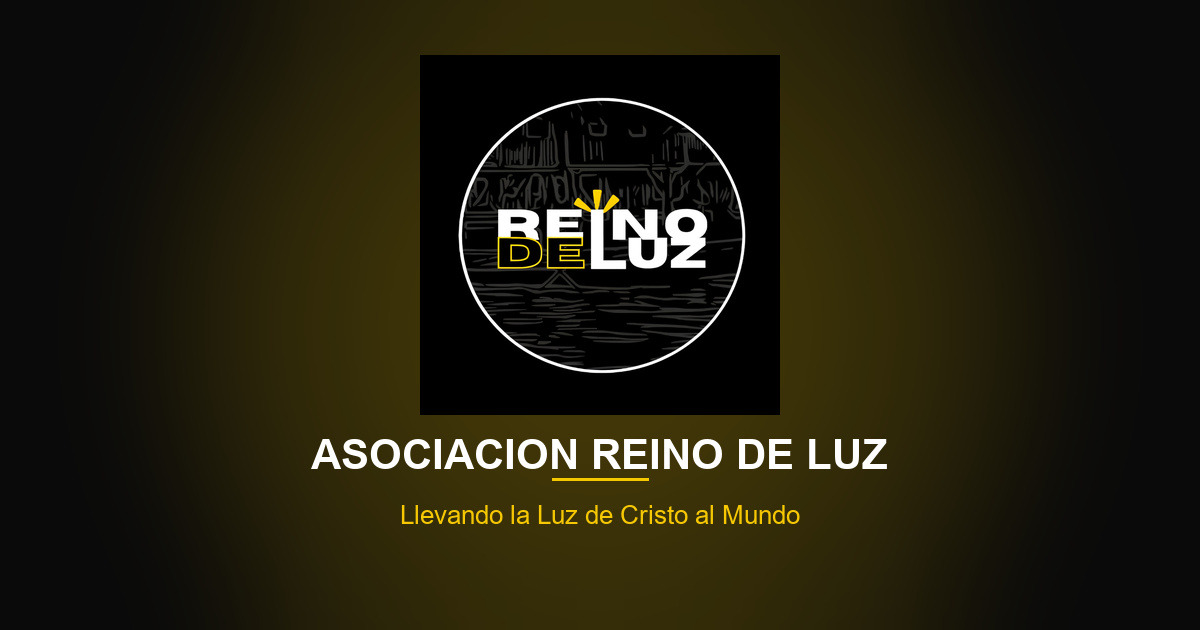
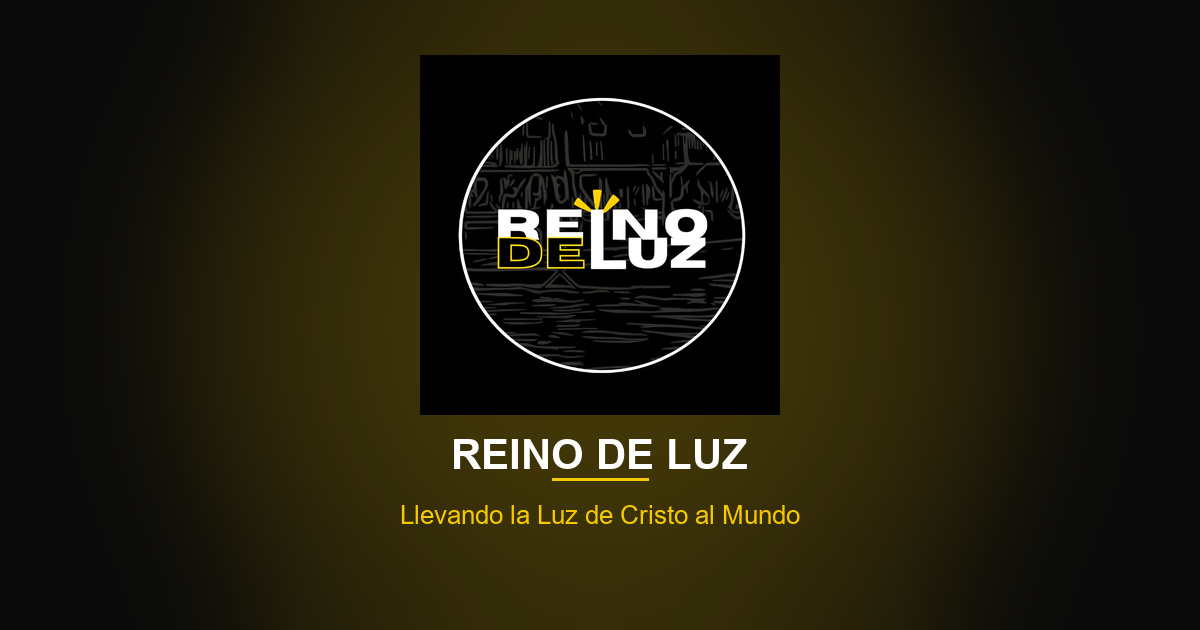
Drop Asociacion from brand naming across the site
Use Reino de Luz in titles, meta, copyright, push copy, and the share image while keeping YouTube account URLs unchanged.

Changed region(s): [[0.2467, 0.6937, 0.74, 0.754]]

diff --git a/en-vivo.html b/en-vivo.html
@@ -14,20 +14,20 @@
 <link rel="icon" type="image/png" sizes="512x512" href="icons/icon-512.png?v=22"/>
 <meta name="description" content="Adoración, predicación y oración en vivo. Activa notificaciones para enterarte cuando estemos al aire."/>
 <meta property="og:type" content="website"/>
-<meta property="og:site_name" content="Asociación Reino de Luz"/>
+<meta property="og:site_name" content="Reino de Luz"/>
 <meta property="og:locale" content="es_PE"/>
 <meta property="og:url" content="https://reinodeluz.org/en-vivo.html"/>
-<meta property="og:title" content="En Vivo · Asociación Reino de Luz"/>
+<meta property="og:title" content="En Vivo · Reino de Luz"/>
 <meta property="og:description" content="Adoración, predicación y oración en vivo. Activa notificaciones para enterarte cuando estemos al aire."/>
-<meta property="og:image" content="https://reinodeluz.org/og-image.jpg?v=22"/>
+<meta property="og:image" content="https://reinodeluz.org/og-image.jpg?v=23"/>
 <meta property="og:image:width" content="1200"/>
 <meta property="og:image:height" content="630"/>
-<meta property="og:image:alt" content="Asociación Reino de Luz"/>
+<meta property="og:image:alt" content="Reino de Luz"/>
 <meta name="twitter:card" content="summary_large_image"/>
-<meta name="twitter:title" content="En Vivo · Asociación Reino de Luz"/>
+<meta name="twitter:title" content="En Vivo · Reino de Luz"/>
 <meta name="twitter:description" content="Adoración, predicación y oración en vivo. Activa notificaciones para enterarte cuando estemos al aire."/>
-<meta name="twitter:image" content="https://reinodeluz.org/og-image.jpg?v=22"/>
-<title>En Vivo · Asociación Reino de Luz</title>
+<meta name="twitter:image" content="https://reinodeluz.org/og-image.jpg?v=23"/>
+<title>En Vivo · Reino de Luz</title>
 <link href="https://fonts.googleapis.com/css2?family=Bebas+Neue&family=Oswald:wght@400;500;700&family=Barlow:wght@400;500&family=Barlow+Condensed:wght@600;700;900&display=swap" rel="stylesheet"/>
 <link rel="stylesheet" href="effects.css?v=31"/>
 <style>
@@ -347,7 +347,7 @@ footer p{font-size:0.8rem;color:var(--muted);margin-bottom:0.25rem;}
         <div class="channel-card">
           <div class="channel-card-header">
             <img src="reinodeluzlogo.png?v=22" alt="Canal" class="channel-logo-sm"/>
-            <div><div class="channel-name">Asociación Reino de Luz</div><div class="channel-handle">@AsociaciónReinodeLuz</div></div>
+            <div><div class="channel-name">Reino de Luz</div><div class="channel-handle">@asociacionreinodeluz</div></div>
           </div>
           <p data-es="Activa las notificaciones del sitio para enterarte al instante cuando empecemos a transmitir." data-en="Turn on site notifications to know the moment we go live.">Activa las notificaciones del sitio para enterarte al instante cuando empecemos a transmitir.</p>
           <a href="https://www.youtube.com/@asociacionreinodeluz" target="_blank" rel="noopener noreferrer" data-es="Visitar Canal →" data-en="Visit Channel →">Visitar Canal →</a>
@@ -369,7 +369,7 @@ footer p{font-size:0.8rem;color:var(--muted);margin-bottom:0.25rem;}
     <div class="footer-wordmark" data-es="REINO <span>DE LUZ</span>" data-en="KINGDOM <span>OF LIGHT</span>">REINO <span>DE LUZ</span></div>
   </div>
   <p data-es="Llevando la Luz de Cristo al Mundo" data-en="Carrying the Light of Christ to the World">Llevando la Luz de Cristo al Mundo</p>
-  <p style="margin-top:0.4rem;" data-es="© 2026 Asociación Reino de Luz. Todos los derechos reservados." data-en="© 2026 Asociación Reino de Luz. All rights reserved.">© 2026 Asociación Reino de Luz. Todos los derechos reservados.</p>
+  <p style="margin-top:0.4rem;" data-es="© 2026 Reino de Luz. Todos los derechos reservados." data-en="© 2026 Reino de Luz. All rights reserved.">© 2026 Reino de Luz. Todos los derechos reservados.</p>
   <ul class="footer-links">
     <li><a href="en-vivo.html" data-es="En Vivo" data-en="Live">En Vivo</a></li>
     <li><a href="mision.html" data-es="Misión" data-en="Mission">Misión</a></li>
@@ -431,7 +431,7 @@ setLang(savedLang);
           iframe.src = EMBED_SRC;
           iframe.allow = 'accelerometer; autoplay; clipboard-write; encrypted-media; gyroscope; picture-in-picture';
           iframe.allowFullscreen = true;
-          iframe.title = 'Asociación Reino de Luz — Live';
+          iframe.title = 'Reino de Luz — Live';
           embedWrapper.appendChild(iframe);
         }
       } else if (iframe) {
@@ -448,13 +448,13 @@ setLang(savedLang);
     }
     if (embedCaption) {
       embedCaption.setAttribute('data-es', isLive
-        ? 'Estás viendo la transmisión en vivo de Asociación Reino de Luz.'
+        ? 'Estás viendo la transmisión en vivo de Reino de Luz.'
         : 'Te avisaremos cuando la transmisión esté al aire.');
       embedCaption.setAttribute('data-en', isLive
-        ? 'You are watching Asociación Reino de Luz live.'
+        ? 'You are watching Reino de Luz live.'
         : "We'll let you know when the stream is on air.");
       embedCaption.textContent = isLive
-        ? (lang === 'en' ? 'You are watching Asociación Reino de Luz live.' : 'Estás viendo la transmisión en vivo de Asociación Reino de Luz.')
+        ? (lang === 'en' ? 'You are watching Reino de Luz live.' : 'Estás viendo la transmisión en vivo de Reino de Luz.')
         : (lang === 'en' ? "We'll let you know when the stream is on air." : 'Te avisaremos cuando la transmisión esté al aire.');
     }
   }

diff --git a/contacto.html b/contacto.html
@@ -12,22 +12,22 @@
 <link rel="apple-touch-icon" href="icons/apple-touch-icon.png?v=22"/>
 <link rel="icon" type="image/png" sizes="192x192" href="icons/icon-192.png?v=22"/>
 <link rel="icon" type="image/png" sizes="512x512" href="icons/icon-512.png?v=22"/>
-<meta name="description" content="Escríbenos por WhatsApp o Facebook. Asociación Reino de Luz en Iquitos, Perú."/>
+<meta name="description" content="Escríbenos por WhatsApp o Facebook. Reino de Luz en Iquitos, Perú."/>
 <meta property="og:type" content="website"/>
-<meta property="og:site_name" content="Asociación Reino de Luz"/>
+<meta property="og:site_name" content="Reino de Luz"/>
 <meta property="og:locale" content="es_PE"/>
 <meta property="og:url" content="https://reinodeluz.org/contacto.html"/>
-<meta property="og:title" content="Contacto · Asociación Reino de Luz"/>
-<meta property="og:description" content="Escríbenos por WhatsApp o Facebook. Asociación Reino de Luz en Iquitos, Perú."/>
-<meta property="og:image" content="https://reinodeluz.org/og-image.jpg?v=22"/>
+<meta property="og:title" content="Contacto · Reino de Luz"/>
+<meta property="og:description" content="Escríbenos por WhatsApp o Facebook. Reino de Luz en Iquitos, Perú."/>
+<meta property="og:image" content="https://reinodeluz.org/og-image.jpg?v=23"/>
 <meta property="og:image:width" content="1200"/>
 <meta property="og:image:height" content="630"/>
-<meta property="og:image:alt" content="Asociación Reino de Luz"/>
+<meta property="og:image:alt" content="Reino de Luz"/>
 <meta name="twitter:card" content="summary_large_image"/>
-<meta name="twitter:title" content="Contacto · Asociación Reino de Luz"/>
-<meta name="twitter:description" content="Escríbenos por WhatsApp o Facebook. Asociación Reino de Luz en Iquitos, Perú."/>
-<meta name="twitter:image" content="https://reinodeluz.org/og-image.jpg?v=22"/>
-<title>Contacto · Asociación Reino de Luz</title>
+<meta name="twitter:title" content="Contacto · Reino de Luz"/>
+<meta name="twitter:description" content="Escríbenos por WhatsApp o Facebook. Reino de Luz en Iquitos, Perú."/>
+<meta name="twitter:image" content="https://reinodeluz.org/og-image.jpg?v=23"/>
+<title>Contacto · Reino de Luz</title>
 <link href="https://fonts.googleapis.com/css2?family=Bebas+Neue&family=Oswald:wght@400;500;700&family=Barlow:wght@400;500&family=Barlow+Condensed:wght@600;700;900&display=swap" rel="stylesheet"/>
 <link rel="stylesheet" href="effects.css?v=31"/>
 <style>
@@ -340,7 +340,7 @@ footer p{font-size:0.8rem;color:var(--muted);margin-bottom:0.25rem;}
           </span>
           <span class="contact-channel-text">
             <span class="contact-channel-label">Facebook</span>
-            <span class="contact-channel-sub" data-es="Asociación Reino De Luz" data-en="Asociación Reino De Luz">Asociación Reino De Luz</span>
+            <span class="contact-channel-sub" data-es="Reino de Luz" data-en="Reino de Luz">Reino de Luz</span>
           </span>
           <span class="contact-channel-arrow" aria-hidden="true">→</span>
         </a>
@@ -359,7 +359,7 @@ footer p{font-size:0.8rem;color:var(--muted);margin-bottom:0.25rem;}
     <div class="footer-wordmark" data-es="REINO <span>DE LUZ</span>" data-en="KINGDOM <span>OF LIGHT</span>">REINO <span>DE LUZ</span></div>
   </div>
   <p data-es="Llevando la Luz de Cristo al Mundo" data-en="Carrying the Light of Christ to the World">Llevando la Luz de Cristo al Mundo</p>
-  <p style="margin-top:0.4rem;" data-es="© 2026 Asociación Reino de Luz. Todos los derechos reservados." data-en="© 2026 Asociación Reino de Luz. All rights reserved.">© 2026 Asociación Reino de Luz. Todos los derechos reservados.</p>
+  <p style="margin-top:0.4rem;" data-es="© 2026 Reino de Luz. Todos los derechos reservados." data-en="© 2026 Reino de Luz. All rights reserved.">© 2026 Reino de Luz. Todos los derechos reservados.</p>
   <ul class="footer-links">
     <li><a href="en-vivo.html" data-es="En Vivo" data-en="Live">En Vivo</a></li>
     <li><a href="mision.html" data-es="Misión" data-en="Mission">Misión</a></li>

diff --git a/about.html b/about.html
@@ -12,22 +12,22 @@
 <link rel="apple-touch-icon" href="icons/apple-touch-icon.png?v=22"/>
 <link rel="icon" type="image/png" sizes="192x192" href="icons/icon-192.png?v=22"/>
 <link rel="icon" type="image/png" sizes="512x512" href="icons/icon-512.png?v=22"/>
-<meta name="description" content="Conoce la historia y el llamado de Asociación Reino de Luz en Iquitos, Perú."/>
+<meta name="description" content="Conoce la historia y el llamado de Reino de Luz en Iquitos, Perú."/>
 <meta property="og:type" content="website"/>
-<meta property="og:site_name" content="Asociación Reino de Luz"/>
+<meta property="og:site_name" content="Reino de Luz"/>
 <meta property="og:locale" content="es_PE"/>
 <meta property="og:url" content="https://reinodeluz.org/about.html"/>
-<meta property="og:title" content="Nosotros · Asociación Reino de Luz"/>
-<meta property="og:description" content="Conoce la historia y el llamado de Asociación Reino de Luz en Iquitos, Perú."/>
-<meta property="og:image" content="https://reinodeluz.org/og-image.jpg?v=22"/>
+<meta property="og:title" content="Nosotros · Reino de Luz"/>
+<meta property="og:description" content="Conoce la historia y el llamado de Reino de Luz en Iquitos, Perú."/>
+<meta property="og:image" content="https://reinodeluz.org/og-image.jpg?v=23"/>
 <meta property="og:image:width" content="1200"/>
 <meta property="og:image:height" content="630"/>
-<meta property="og:image:alt" content="Asociación Reino de Luz"/>
+<meta property="og:image:alt" content="Reino de Luz"/>
 <meta name="twitter:card" content="summary_large_image"/>
-<meta name="twitter:title" content="Nosotros · Asociación Reino de Luz"/>
-<meta name="twitter:description" content="Conoce la historia y el llamado de Asociación Reino de Luz en Iquitos, Perú."/>
-<meta name="twitter:image" content="https://reinodeluz.org/og-image.jpg?v=22"/>
-<title>Nosotros · Asociación Reino de Luz</title>
+<meta name="twitter:title" content="Nosotros · Reino de Luz"/>
+<meta name="twitter:description" content="Conoce la historia y el llamado de Reino de Luz en Iquitos, Perú."/>
+<meta name="twitter:image" content="https://reinodeluz.org/og-image.jpg?v=23"/>
+<title>Nosotros · Reino de Luz</title>
 <link href="https://fonts.googleapis.com/css2?family=Bebas+Neue&family=Oswald:wght@400;500;700&family=Barlow:wght@400;500&family=Barlow+Condensed:wght@600;700;900&display=swap" rel="stylesheet"/>
 <link rel="stylesheet" href="effects.css?v=31"/>
 <style>
@@ -411,7 +411,7 @@ footer p{font-size:0.8rem;color:var(--muted);margin-bottom:0.25rem;}
     <div class="footer-wordmark" data-es="REINO <span>DE LUZ</span>" data-en="KINGDOM <span>OF LIGHT</span>">REINO <span>DE LUZ</span></div>
   </div>
   <p data-es="Llevando la Luz de Cristo al Mundo" data-en="Carrying the Light of Christ to the World">Llevando la Luz de Cristo al Mundo</p>
-  <p style="margin-top:0.4rem;" data-es="© 2026 Asociación Reino de Luz. Todos los derechos reservados." data-en="© 2026 Asociación Reino de Luz. All rights reserved.">© 2026 Asociación Reino de Luz. Todos los derechos reservados.</p>
+  <p style="margin-top:0.4rem;" data-es="© 2026 Reino de Luz. Todos los derechos reservados." data-en="© 2026 Reino de Luz. All rights reserved.">© 2026 Reino de Luz. Todos los derechos reservados.</p>
   <ul class="footer-links">
     <li><a href="en-vivo.html" data-es="En Vivo" data-en="Live">En Vivo</a></li>
     <li><a href="mision.html" data-es="Misión" data-en="Mission">Misión</a></li>

diff --git a/index.html b/index.html
@@ -14,20 +14,20 @@
 <link rel="icon" type="image/png" sizes="512x512" href="icons/icon-512.png?v=22"/>
 <meta name="description" content="Desde 2020, servimos a niños y familias en uno de los distritos más vulnerables de Iquitos — formando vidas con el evangelio, talentos y esperanza."/>
 <meta property="og:type" content="website"/>
-<meta property="og:site_name" content="Asociación Reino de Luz"/>
+<meta property="og:site_name" content="Reino de Luz"/>
 <meta property="og:locale" content="es_PE"/>
 <meta property="og:url" content="https://reinodeluz.org/"/>
-<meta property="og:title" content="Asociación Reino de Luz | Kingdom of Light"/>
+<meta property="og:title" content="Reino de Luz | Kingdom of Light"/>
 <meta property="og:description" content="Desde 2020, servimos a niños y familias en uno de los distritos más vulnerables de Iquitos — formando vidas con el evangelio, talentos y esperanza."/>
-<meta property="og:image" content="https://reinodeluz.org/og-image.jpg?v=22"/>
+<meta property="og:image" content="https://reinodeluz.org/og-image.jpg?v=23"/>
 <meta property="og:image:width" content="1200"/>
 <meta property="og:image:height" content="630"/>
-<meta property="og:image:alt" content="Asociación Reino de Luz"/>
+<meta property="og:image:alt" content="Reino de Luz"/>
 <meta name="twitter:card" content="summary_large_image"/>
-<meta name="twitter:title" content="Asociación Reino de Luz | Kingdom of Light"/>
+<meta name="twitter:title" content="Reino de Luz | Kingdom of Light"/>
 <meta name="twitter:description" content="Desde 2020, servimos a niños y familias en uno de los distritos más vulnerables de Iquitos — formando vidas con el evangelio, talentos y esperanza."/>
-<meta name="twitter:image" content="https://reinodeluz.org/og-image.jpg?v=22"/>
-<title>Asociación Reino de Luz | Kingdom of Light</title>
+<meta name="twitter:image" content="https://reinodeluz.org/og-image.jpg?v=23"/>
+<title>Reino de Luz | Kingdom of Light</title>
 <link href="https://fonts.googleapis.com/css2?family=Bebas+Neue&family=Oswald:wght@400;500;700&family=Barlow:wght@400;500&family=Barlow+Condensed:wght@600;700;900&display=swap" rel="stylesheet" />
 <link rel="stylesheet" href="effects.css?v=31"/>
 <style>
@@ -430,7 +430,7 @@ footer p{font-size:0.8rem;color:var(--muted);margin-bottom:0.25rem;}
     <div class="footer-wordmark" data-es="REINO <span>DE LUZ</span>" data-en="KINGDOM <span>OF LIGHT</span>">REINO <span>DE LUZ</span></div>
   </div>
   <p data-es="Llevando la Luz de Cristo al Mundo" data-en="Carrying the Light of Christ to the World">Llevando la Luz de Cristo al Mundo</p>
-  <p style="margin-top:0.4rem;" data-es="© 2026 Asociación Reino de Luz. Todos los derechos reservados." data-en="© 2026 Asociación Reino de Luz. All rights reserved.">© 2026 Asociación Reino de Luz. Todos los derechos reservados.</p>
+  <p style="margin-top:0.4rem;" data-es="© 2026 Reino de Luz. Todos los derechos reservados." data-en="© 2026 Reino de Luz. All rights reserved.">© 2026 Reino de Luz. Todos los derechos reservados.</p>
   <ul class="footer-links">
     <li><a href="en-vivo.html" data-es="En Vivo" data-en="Live">En Vivo</a></li>
     <li><a href="mision.html" data-es="Misión" data-en="Mission">Misión</a></li>

diff --git a/mision.html b/mision.html
@@ -14,20 +14,20 @@
 <link rel="icon" type="image/png" sizes="512x512" href="icons/icon-512.png?v=22"/>
 <meta name="description" content="Una generación transformada: visión, pilares e impacto de Reino de Luz en Belén, Iquitos."/>
 <meta property="og:type" content="website"/>
-<meta property="og:site_name" content="Asociación Reino de Luz"/>
+<meta property="og:site_name" content="Reino de Luz"/>
 <meta property="og:locale" content="es_PE"/>
 <meta property="og:url" content="https://reinodeluz.org/mision.html"/>
-<meta property="og:title" content="Misión · Asociación Reino de Luz"/>
+<meta property="og:title" content="Misión · Reino de Luz"/>
 <meta property="og:description" content="Una generación transformada: visión, pilares e impacto de Reino de Luz en Belén, Iquitos."/>
-<meta property="og:image" content="https://reinodeluz.org/og-image.jpg?v=22"/>
+<meta property="og:image" content="https://reinodeluz.org/og-image.jpg?v=23"/>
 <meta property="og:image:width" content="1200"/>
 <meta property="og:image:height" content="630"/>
-<meta property="og:image:alt" content="Asociación Reino de Luz"/>
+<meta property="og:image:alt" content="Reino de Luz"/>
 <meta name="twitter:card" content="summary_large_image"/>
-<meta name="twitter:title" content="Misión · Asociación Reino de Luz"/>
+<meta name="twitter:title" content="Misión · Reino de Luz"/>
 <meta name="twitter:description" content="Una generación transformada: visión, pilares e impacto de Reino de Luz en Belén, Iquitos."/>
-<meta name="twitter:image" content="https://reinodeluz.org/og-image.jpg?v=22"/>
-<title>Misión · Asociación Reino de Luz</title>
+<meta name="twitter:image" content="https://reinodeluz.org/og-image.jpg?v=23"/>
+<title>Misión · Reino de Luz</title>
 <link href="https://fonts.googleapis.com/css2?family=Bebas+Neue&family=Oswald:wght@400;500;700&family=Barlow:wght@400;500&family=Barlow+Condensed:wght@600;700;900&display=swap" rel="stylesheet"/>
 <link rel="stylesheet" href="effects.css?v=31"/>
 <style>
@@ -395,7 +395,7 @@ footer p{font-size:0.8rem;color:var(--muted);margin-bottom:0.25rem;}
     <div class="footer-wordmark" data-es="REINO <span>DE LUZ</span>" data-en="KINGDOM <span>OF LIGHT</span>">REINO <span>DE LUZ</span></div>
   </div>
   <p data-es="Llevando la Luz de Cristo al Mundo" data-en="Carrying the Light of Christ to the World">Llevando la Luz de Cristo al Mundo</p>
-  <p style="margin-top:0.4rem;" data-es="© 2026 Asociación Reino de Luz. Todos los derechos reservados." data-en="© 2026 Asociación Reino de Luz. All rights reserved.">© 2026 Asociación Reino de Luz. Todos los derechos reservados.</p>
+  <p style="margin-top:0.4rem;" data-es="© 2026 Reino de Luz. Todos los derechos reservados." data-en="© 2026 Reino de Luz. All rights reserved.">© 2026 Reino de Luz. Todos los derechos reservados.</p>
   <ul class="footer-links">
     <li><a href="en-vivo.html" data-es="En Vivo" data-en="Live">En Vivo</a></li>
     <li><a href="mision.html" data-es="Misión" data-en="Mission">Misión</a></li>

diff --git a/programas.html b/programas.html
@@ -14,20 +14,20 @@
 <link rel="icon" type="image/png" sizes="512x512" href="icons/icon-512.png?v=22"/>
 <meta name="description" content="Programas semanales de discipulado, talentos y formación para niños y adolescentes."/>
 <meta property="og:type" content="website"/>
-<meta property="og:site_name" content="Asociación Reino de Luz"/>
+<meta property="og:site_name" content="Reino de Luz"/>
 <meta property="og:locale" content="es_PE"/>
 <meta property="og:url" content="https://reinodeluz.org/programas.html"/>
-<meta property="og:title" content="Programas · Asociación Reino de Luz"/>
+<meta property="og:title" content="Programas · Reino de Luz"/>
 <meta property="og:description" content="Programas semanales de discipulado, talentos y formación para niños y adolescentes."/>
-<meta property="og:image" content="https://reinodeluz.org/og-image.jpg?v=22"/>
+<meta property="og:image" content="https://reinodeluz.org/og-image.jpg?v=23"/>
 <meta property="og:image:width" content="1200"/>
 <meta property="og:image:height" content="630"/>
-<meta property="og:image:alt" content="Asociación Reino de Luz"/>
+<meta property="og:image:alt" content="Reino de Luz"/>
 <meta name="twitter:card" content="summary_large_image"/>
-<meta name="twitter:title" content="Programas · Asociación Reino de Luz"/>
+<meta name="twitter:title" content="Programas · Reino de Luz"/>
 <meta name="twitter:description" content="Programas semanales de discipulado, talentos y formación para niños y adolescentes."/>
-<meta name="twitter:image" content="https://reinodeluz.org/og-image.jpg?v=22"/>
-<title>Programas · Asociación Reino de Luz</title>
+<meta name="twitter:image" content="https://reinodeluz.org/og-image.jpg?v=23"/>
+<title>Programas · Reino de Luz</title>
 <link href="https://fonts.googleapis.com/css2?family=Bebas+Neue&family=Oswald:wght@400;500;700&family=Barlow:wght@400;500&family=Barlow+Condensed:wght@600;700;900&display=swap" rel="stylesheet"/>
 <link rel="stylesheet" href="effects.css?v=31"/>
 <style>
@@ -370,7 +370,7 @@ footer p{font-size:0.8rem;color:var(--muted);margin-bottom:0.25rem;}
     <div class="footer-wordmark" data-es="REINO <span>DE LUZ</span>" data-en="KINGDOM <span>OF LIGHT</span>">REINO <span>DE LUZ</span></div>
   </div>
   <p data-es="Llevando la Luz de Cristo al Mundo" data-en="Carrying the Light of Christ to the World">Llevando la Luz de Cristo al Mundo</p>
-  <p style="margin-top:0.4rem;" data-es="© 2026 Asociación Reino de Luz. Todos los derechos reservados." data-en="© 2026 Asociación Reino de Luz. All rights reserved.">© 2026 Asociación Reino de Luz. Todos los derechos reservados.</p>
+  <p style="margin-top:0.4rem;" data-es="© 2026 Reino de Luz. Todos los derechos reservados." data-en="© 2026 Reino de Luz. All rights reserved.">© 2026 Reino de Luz. Todos los derechos reservados.</p>
   <ul class="footer-links">
     <li><a href="en-vivo.html" data-es="En Vivo" data-en="Live">En Vivo</a></li>
     <li><a href="mision.html" data-es="Misión" data-en="Mission">Misión</a></li>

diff --git a/donar.html b/donar.html
@@ -14,20 +14,20 @@
 <link rel="icon" type="image/png" sizes="512x512" href="icons/icon-512.png?v=22"/>
 <meta name="description" content="Tu donación sostiene alimentación, talleres y el servicio a familias en Belén, Iquitos."/>
 <meta property="og:type" content="website"/>
-<meta property="og:site_name" content="Asociación Reino de Luz"/>
+<meta property="og:site_name" content="Reino de Luz"/>
 <meta property="og:locale" content="es_PE"/>
 <meta property="og:url" content="https://reinodeluz.org/donar.html"/>
-<meta property="og:title" content="Donar · Asociación Reino de Luz"/>
+<meta property="og:title" content="Donar · Reino de Luz"/>
 <meta property="og:description" content="Tu donación sostiene alimentación, talleres y el servicio a familias en Belén, Iquitos."/>
-<meta property="og:image" content="https://reinodeluz.org/og-image.jpg?v=22"/>
+<meta property="og:image" content="https://reinodeluz.org/og-image.jpg?v=23"/>
 <meta property="og:image:width" content="1200"/>
 <meta property="og:image:height" content="630"/>
-<meta property="og:image:alt" content="Asociación Reino de Luz"/>
+<meta property="og:image:alt" content="Reino de Luz"/>
 <meta name="twitter:card" content="summary_large_image"/>
-<meta name="twitter:title" content="Donar · Asociación Reino de Luz"/>
+<meta name="twitter:title" content="Donar · Reino de Luz"/>
 <meta name="twitter:description" content="Tu donación sostiene alimentación, talleres y el servicio a familias en Belén, Iquitos."/>
-<meta name="twitter:image" content="https://reinodeluz.org/og-image.jpg?v=22"/>
-<title>Donar · Asociación Reino de Luz</title>
+<meta name="twitter:image" content="https://reinodeluz.org/og-image.jpg?v=23"/>
+<title>Donar · Reino de Luz</title>
 <link href="https://fonts.googleapis.com/css2?family=Bebas+Neue&family=Oswald:wght@400;500;700&family=Barlow:wght@400;500&family=Barlow+Condensed:wght@600;700;900&display=swap" rel="stylesheet"/>
 <link rel="stylesheet" href="effects.css?v=31"/>
 <style>
@@ -198,7 +198,7 @@ footer p{font-size:0.8rem;color:var(--muted);margin-bottom:0.25rem;}
     <div class="footer-wordmark" data-es="REINO <span>DE LUZ</span>" data-en="KINGDOM <span>OF LIGHT</span>">REINO <span>DE LUZ</span></div>
   </div>
   <p data-es="Llevando la Luz de Cristo al Mundo" data-en="Carrying the Light of Christ to the World">Llevando la Luz de Cristo al Mundo</p>
-  <p style="margin-top:0.4rem;" data-es="© 2026 Asociación Reino de Luz. Todos los derechos reservados." data-en="© 2026 Asociación Reino de Luz. All rights reserved.">© 2026 Asociación Reino de Luz. Todos los derechos reservados.</p>
+  <p style="margin-top:0.4rem;" data-es="© 2026 Reino de Luz. Todos los derechos reservados." data-en="© 2026 Reino de Luz. All rights reserved.">© 2026 Reino de Luz. Todos los derechos reservados.</p>
   <ul class="footer-links">
     <li><a href="en-vivo.html" data-es="En Vivo" data-en="Live">En Vivo</a></li>
     <li><a href="mision.html" data-es="Misión" data-en="Mission">Misión</a></li>

diff --git a/galeria.html b/galeria.html
@@ -14,20 +14,20 @@
 <link rel="icon" type="image/png" sizes="512x512" href="icons/icon-512.png?v=22"/>
 <meta name="description" content="Cada foto es un testimonio de lo que Dios está haciendo en Reino de Luz."/>
 <meta property="og:type" content="website"/>
-<meta property="og:site_name" content="Asociación Reino de Luz"/>
+<meta property="og:site_name" content="Reino de Luz"/>
 <meta property="og:locale" content="es_PE"/>
 <meta property="og:url" content="https://reinodeluz.org/galeria.html"/>
-<meta property="og:title" content="Momentos · Asociación Reino de Luz"/>
+<meta property="og:title" content="Momentos · Reino de Luz"/>
 <meta property="og:description" content="Cada foto es un testimonio de lo que Dios está haciendo en Reino de Luz."/>
-<meta property="og:image" content="https://reinodeluz.org/og-image.jpg?v=22"/>
+<meta property="og:image" content="https://reinodeluz.org/og-image.jpg?v=23"/>
 <meta property="og:image:width" content="1200"/>
 <meta property="og:image:height" content="630"/>
-<meta property="og:image:alt" content="Asociación Reino de Luz"/>
+<meta property="og:image:alt" content="Reino de Luz"/>
 <meta name="twitter:card" content="summary_large_image"/>
-<meta name="twitter:title" content="Momentos · Asociación Reino de Luz"/>
+<meta name="twitter:title" content="Momentos · Reino de Luz"/>
 <meta name="twitter:description" content="Cada foto es un testimonio de lo que Dios está haciendo en Reino de Luz."/>
-<meta name="twitter:image" content="https://reinodeluz.org/og-image.jpg?v=22"/>
-<title>Momentos · Asociación Reino de Luz</title>
+<meta name="twitter:image" content="https://reinodeluz.org/og-image.jpg?v=23"/>
+<title>Momentos · Reino de Luz</title>
 <link href="https://fonts.googleapis.com/css2?family=Bebas+Neue&family=Oswald:wght@400;500;700&family=Barlow:wght@400;500&family=Barlow+Condensed:wght@600;700;900&display=swap" rel="stylesheet"/>
 <link rel="stylesheet" href="effects.css?v=31"/>
 <style>
@@ -342,7 +342,7 @@ footer p{font-size:0.78rem;color:var(--muted);}
     <div class="footer-wordmark" data-es="REINO <span>DE LUZ</span>" data-en="KINGDOM <span>OF LIGHT</span>">REINO <span>DE LUZ</span></div>
   </div>
   <p data-es="Llevando la Luz de Cristo al Mundo" data-en="Carrying the Light of Christ to the World">Llevando la Luz de Cristo al Mundo</p>
-  <p data-es="© 2026 Asociación Reino de Luz. Todos los derechos reservados." data-en="© 2026 Asociación Reino de Luz. All rights reserved.">© 2026 Asociación Reino de Luz. Todos los derechos reservados.</p>
+  <p data-es="© 2026 Reino de Luz. Todos los derechos reservados." data-en="© 2026 Reino de Luz. All rights reserved.">© 2026 Reino de Luz. Todos los derechos reservados.</p>
   <ul class="footer-links">
     <li><a href="en-vivo.html" data-es="En Vivo" data-en="Live">En Vivo</a></li>
     <li><a href="mision.html" data-es="Misión" data-en="Mission">Misión</a></li>

diff --git a/worker/src/index.js b/worker/src/index.js
@@ -253,7 +253,7 @@ async function notifySubscribers(env, live) {
   const site = (env.SITE_ORIGIN || 'https://reinodeluz.org').replace(/\/$/, '');
   const payload = {
     title: '¡Estamos en vivo!',
-    body: 'Asociación Reino de Luz está transmitiendo ahora. Únete a la transmisión.',
+    body: 'Reino de Luz está transmitiendo ahora. Únete a la transmisión.',
     icon: site + '/reinodeluzlogo.png',
     badge: site + '/reinodeluzlogo.png',
     tag: 'rdl-live',

diff --git a/sw.js b/sw.js
@@ -32,7 +32,7 @@ self.addEventListener('push', (event) => {
   const body =
     typeof data.body === 'string' && data.body
       ? data.body
-      : 'Asociación Reino de Luz está transmitiendo ahora.';
+      : 'Reino de Luz está transmitiendo ahora.';
   const icon = sameOriginUrl(data.icon, '/icons/icon-192.png');
   const badge = sameOriginUrl(data.badge, '/icons/icon-192.png');
   const clickUrl = sameOriginUrl(

diff --git a/historia.html b/historia.html
@@ -4,7 +4,7 @@
 <meta charset="UTF-8"/>
 <meta http-equiv="refresh" content="0; url=about.html"/>
 <link rel="canonical" href="about.html"/>
-<title>Redirecting to About · Asociación Reino de Luz</title>
+<title>Redirecting to About · Reino de Luz</title>
 <script>location.replace('about.html');</script>
 </head>
 <body>

diff --git a/impacto.html b/impacto.html
@@ -4,7 +4,7 @@
 <meta charset="UTF-8"/>
 <meta http-equiv="refresh" content="0; url=mision.html#impacto"/>
 <link rel="canonical" href="mision.html"/>
-<title>Impacto · Asociación Reino de Luz</title>
+<title>Impacto · Reino de Luz</title>
 <script>location.replace('mision.html#impacto');</script>
 </head>
 <body>
